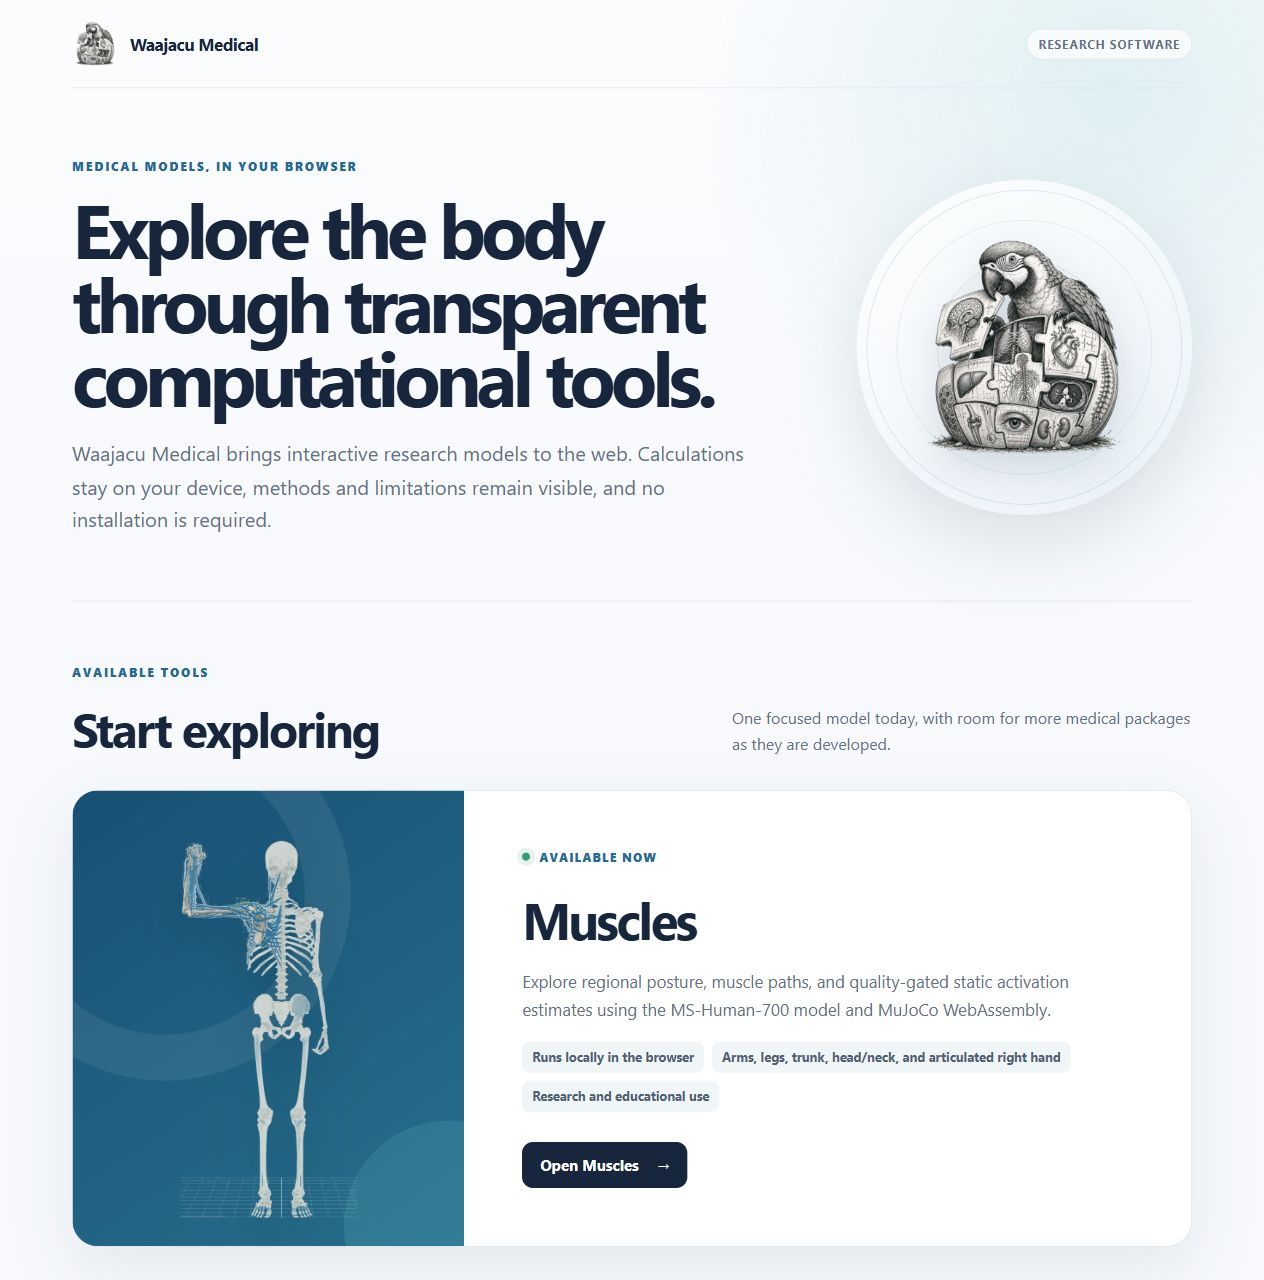
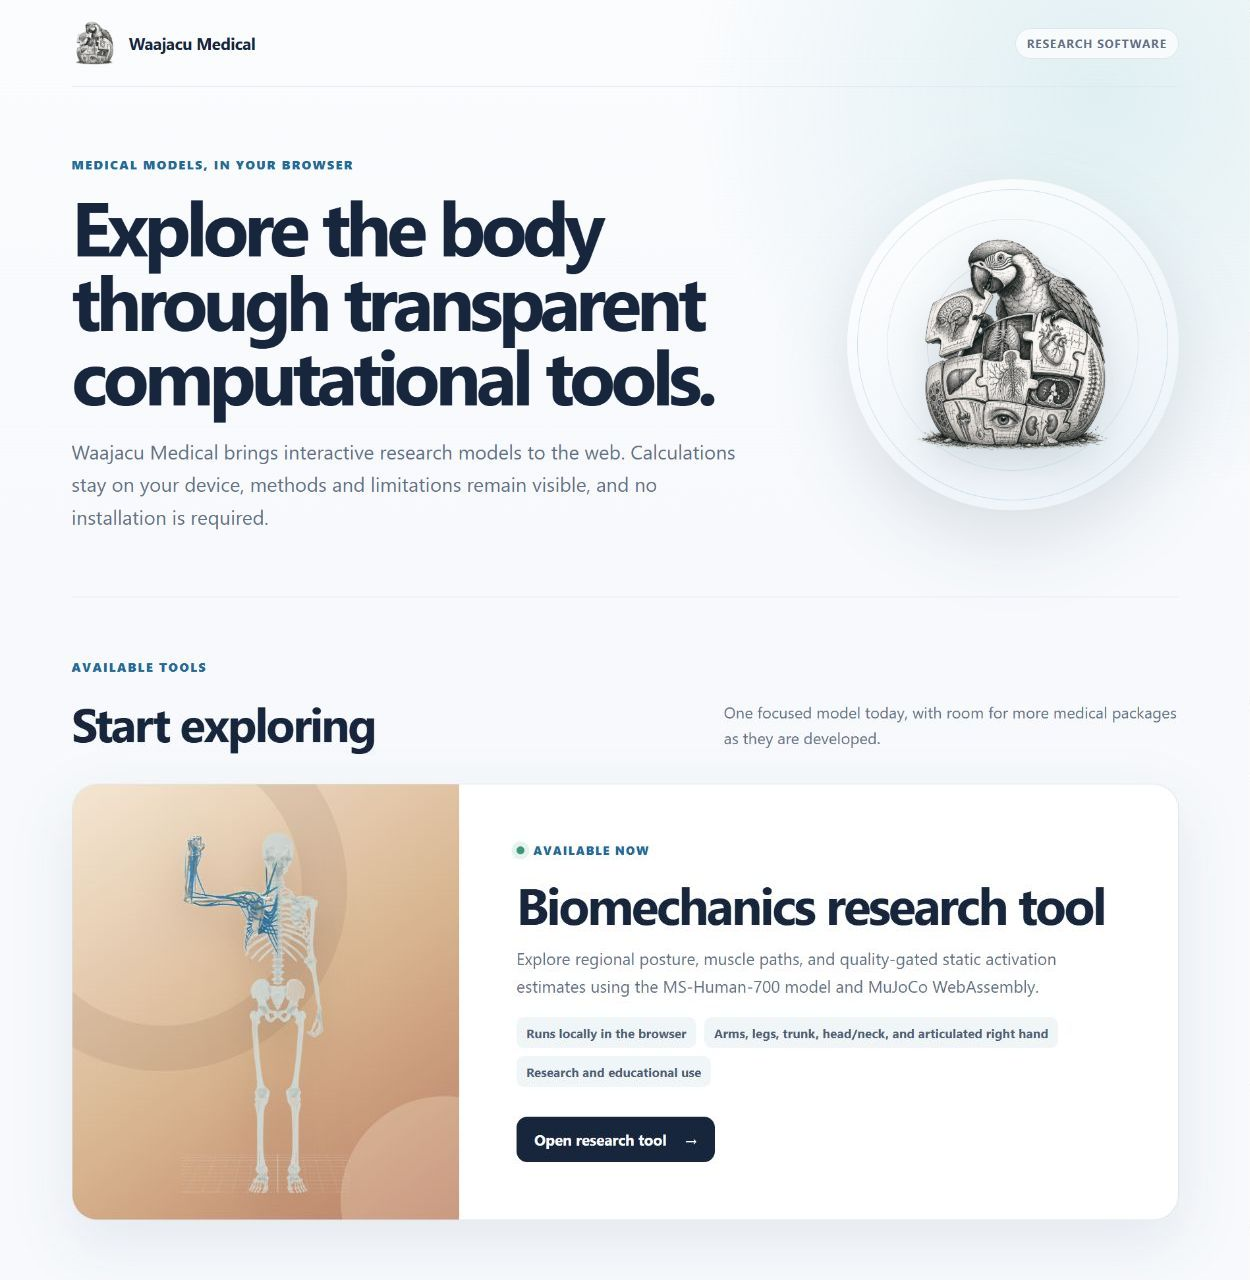
Rename biomechanics catalog tool

diff --git a/site/styles.css b/site/styles.css
@@ -202,8 +202,7 @@ h2 {
     min-height: 300px;
     overflow: hidden;
     background:
-        linear-gradient(145deg, rgb(25 80 116 / 96%), rgb(40 115 143 / 91%)),
-        var(--blue-dark);
+        linear-gradient(145deg, #f4e6d3 0%, #d7b38e 56%, #b97d65 100%);
 }
 
 .tool-visual::before,
@@ -218,7 +217,7 @@ h2 {
     height: 280px;
     top: -82px;
     left: -94px;
-    border: 46px solid rgb(255 255 255 / 7%);
+    border: 46px solid rgb(91 55 43 / 9%);
 }
 
 .tool-visual::after {
@@ -226,7 +225,7 @@ h2 {
     height: 210px;
     right: -90px;
     bottom: -85px;
-    background: rgb(101 184 189 / 19%);
+    background: rgb(255 244 220 / 24%);
 }
 
 .tool-figure {
@@ -237,7 +236,7 @@ h2 {
     height: 90%;
     object-fit: contain;
     object-position: center;
-    filter: drop-shadow(0 18px 22px rgb(8 40 53 / 28%));
+    filter: drop-shadow(0 18px 22px rgb(79 42 32 / 24%));
 }
 
 .tool-content {
@@ -271,6 +270,11 @@ h3 {
     margin-bottom: 15px;
     font-size: clamp(2rem, 4vw, 3.2rem);
     letter-spacing: -0.045em;
+}
+
+.tool-content h3 {
+    line-height: 1.02;
+    text-wrap: balance;
 }
 
 .tool-content > p {

diff --git a/site/index.html b/site/index.html
@@ -53,18 +53,18 @@
                         <span class="status-dot"></span>
                         Available now
                     </div>
-                    <h3>Muscles</h3>
+                    <h3>Biomechanics research tool</h3>
                     <p>
                         Explore regional posture, muscle paths, and quality-gated static activation
                         estimates using the MS-Human-700 model and MuJoCo WebAssembly.
                     </p>
-                    <ul aria-label="Muscles tool features">
+                    <ul aria-label="Biomechanics research tool features">
                         <li>Runs locally in the browser</li>
                         <li>Arms, legs, trunk, head/neck, and articulated right hand</li>
                         <li>Research and educational use</li>
                     </ul>
                     <a class="tool-link" href="./en/tools/muscles/">
-                        Open Muscles
+                        Open research tool
                         <span aria-hidden="true">&rarr;</span>
                     </a>
                 </div>

diff --git a/site/muscles/index.html b/site/muscles/index.html
@@ -6,9 +6,9 @@
     <meta name="robots" content="noindex">
     <meta http-equiv="refresh" content="0; url=../en/tools/muscles/">
     <link rel="canonical" href="../en/tools/muscles/">
-    <title>Opening Waajacu Medical Muscles</title>
+    <title>Opening the Waajacu Medical biomechanics research tool</title>
 </head>
 <body>
-    <p><a href="../en/tools/muscles/">Open Waajacu Medical Muscles</a></p>
+    <p><a href="../en/tools/muscles/">Open the Waajacu Medical biomechanics research tool</a></p>
 </body>
 </html>

diff --git a/README.md b/README.md
@@ -9,20 +9,20 @@ source, verification, and licensing boundary while sharing one public catalog.
 ### Medical catalog
 
 <a href="https://medical.waajacu.com/">
-  <img src="./docs/screenshots/waajacu-medical-home.png" width="960" alt="Waajacu Medical catalog homepage showing the available Muscles browser tool">
+  <img src="./docs/screenshots/waajacu-medical-home.png" width="960" alt="Waajacu Medical catalog homepage showing the available biomechanics research tool">
 </a>
 
-### Muscles assessment
+### Guided assessment
 
 <a href="https://medical.waajacu.com/en/tools/muscles/">
-  <img src="./docs/screenshots/muscles-assessment.png" width="960" alt="Muscles assessment workspace showing a guided upper-limb observation and the browser-based body model">
+  <img src="./docs/screenshots/muscles-assessment.png" width="960" alt="Biomechanics research tool assessment workspace showing a guided upper-limb observation and the browser-based body model">
 </a>
 
 ## Published routes
 
 - `/` - catalog of available medical tools
 - `/en/tools/muscles/` - MS-Human-700 musculoskeletal explorer
-- `/muscles/` - compatibility redirect to the canonical Muscles route
+- `/muscles/` - compatibility redirect to the canonical tool route
 
 The public site is assembled by `.github/workflows/pages.yml`. Only `site/`,
 the catalog logo, and each explicitly selected tool's static distribution are
@@ -31,7 +31,7 @@ published.
 
 ## Tools
 
-### Muscles
+### Biomechanics research tool
 
 The source is in `muscles/`. Its browser distribution is `muscles/public/`,
 and its independent verification command is:
